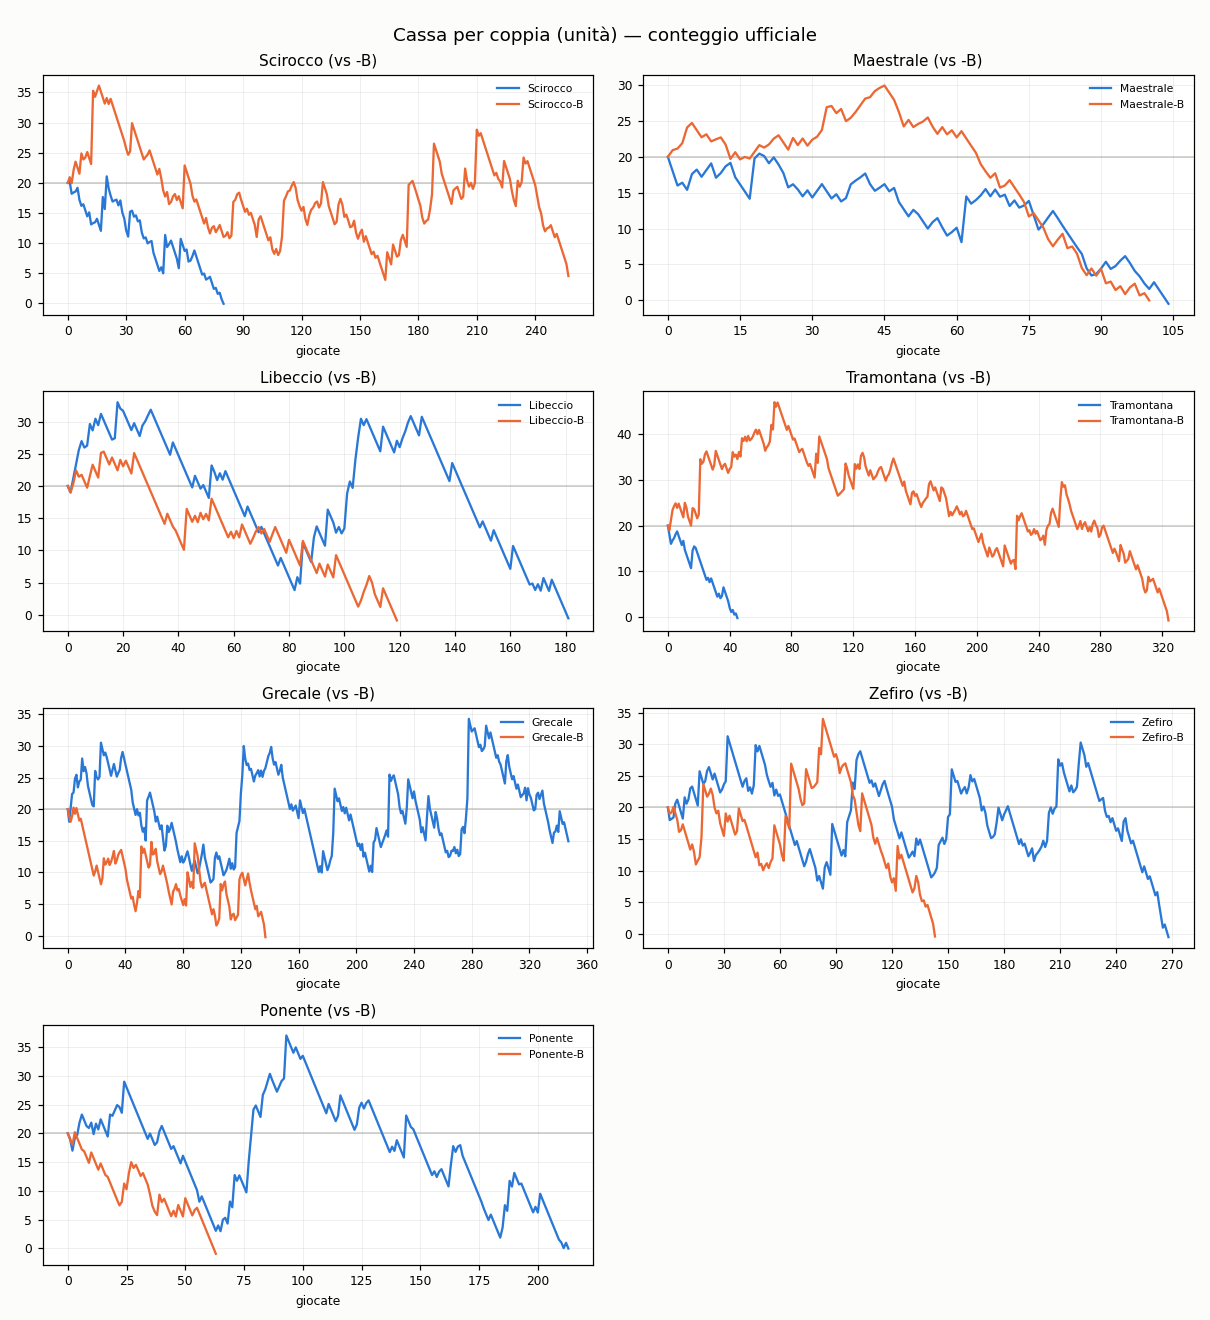
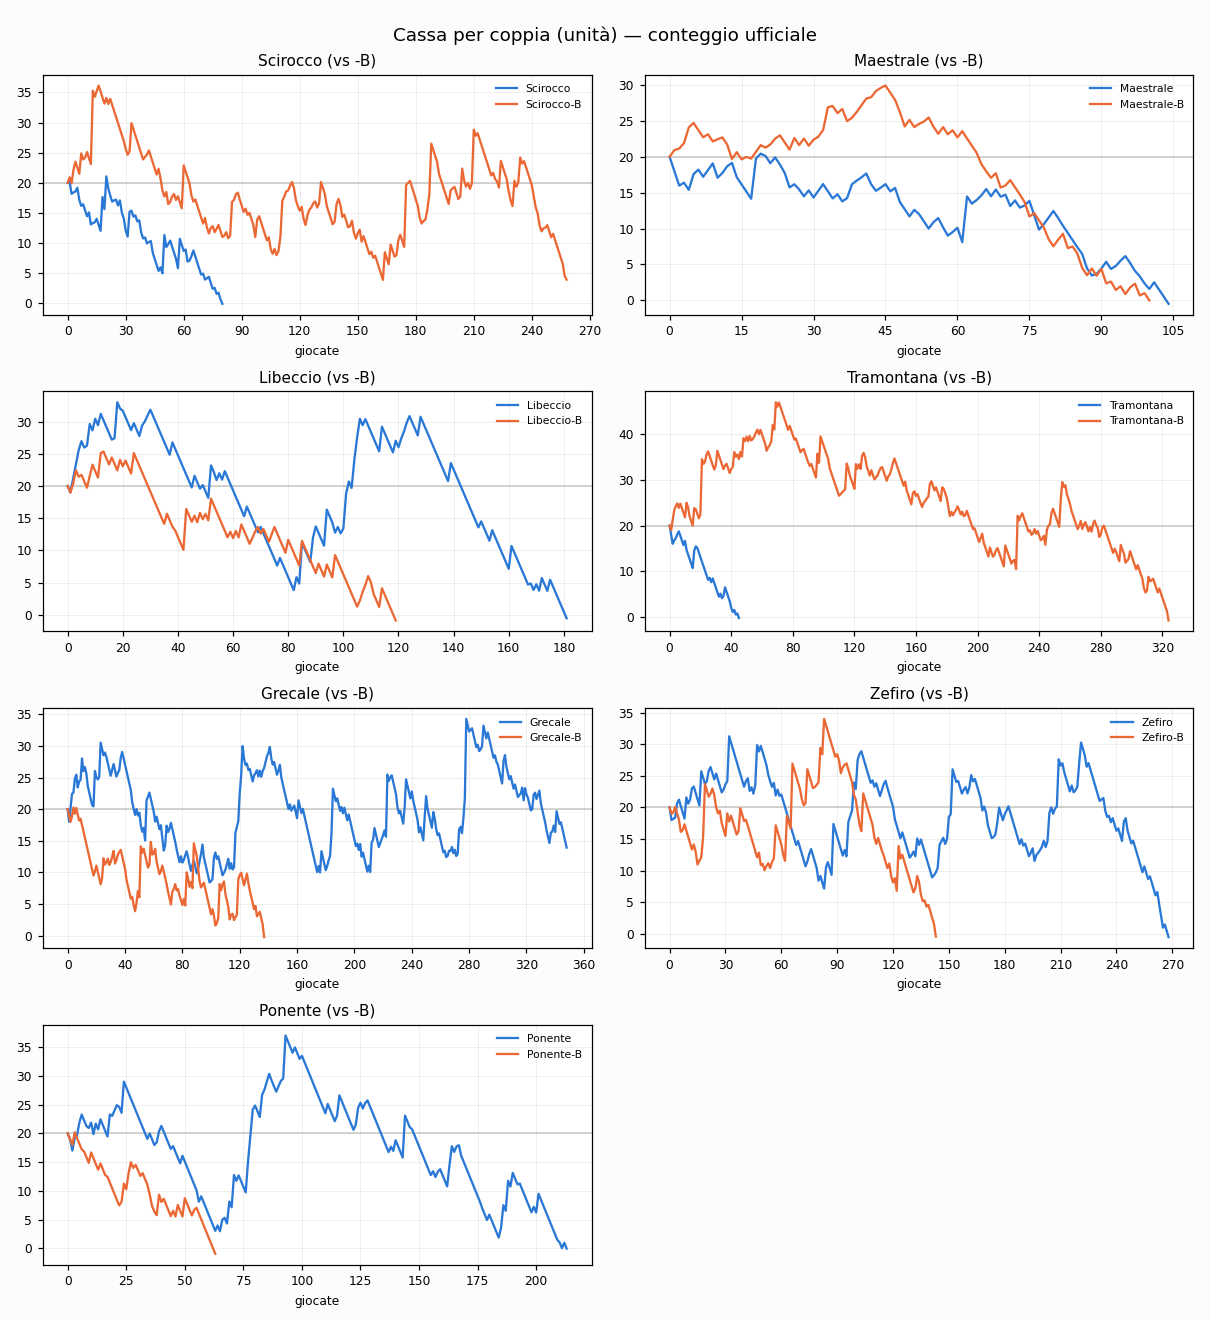
aggiornamento 2026-07-28 17:41 UTC

diff --git a/README.md b/README.md
@@ -37,9 +37,9 @@ scala in unità). Non indichiamo quale.
 
 ## Grafici
 
-![Coppie: dati completi vs ridotti](https://raw.githubusercontent.com/Kitem19/ippica-track-record/main/charts/equity_pairs.png?v=80d138b9)
+![Coppie: dati completi vs ridotti](https://raw.githubusercontent.com/Kitem19/ippica-track-record/main/charts/equity_pairs.png?v=bd003db7)
 
-![Delta per coppia](https://raw.githubusercontent.com/Kitem19/ippica-track-record/main/charts/coppie_delta.png?v=d31373b0)
+![Delta per coppia](https://raw.githubusercontent.com/Kitem19/ippica-track-record/main/charts/coppie_delta.png?v=438f2ebe)
 
 ### Come leggere i grafici
 
@@ -56,11 +56,11 @@ scala in unità). Non indichiamo quale.
 
 _Poche giornate: numeri ancora rumorosi, si conclude a fine fase (31/7)._
 
-- **Scirocco**: dati ridotti avanti di 4,6u — qui gli extra non aiutano
+- **Scirocco**: dati ridotti avanti di 4,0u — qui gli extra non aiutano
 - **Maestrale**: in sostanziale pareggio — troppo presto per dire
 - **Libeccio**: in sostanziale pareggio — troppo presto per dire
 - **Tramontana**: in sostanziale pareggio — troppo presto per dire
-- **Grecale**: dati completi avanti di 15,2u
+- **Grecale**: dati completi avanti di 14,2u
 - **Zefiro**: in sostanziale pareggio — troppo presto per dire
 - **Ponente**: in sostanziale pareggio — troppo presto per dire
 
@@ -68,22 +68,22 @@ _Poche giornate: numeri ancora rumorosi, si conclude a fine fase (31/7)._
 
 | Sistema | Cassa (u) | P/L (u) | Selezioni | Escluse | Stato |
 |---|---|---|---|---|---|
-| Grecale | 14,9 | -5,1 | 347 | 4 | 🟢 |
-| Scirocco-B | 4,5 | -15,5 | 257 | 6 | 🟢 |
-| Maestrale-B | 0,0 | -20,0 | 100 | 280 | 🛑 |
-| Ponente | 0,0 | -20,0 | 213 | 54 | 🛑 |
+| Grecale | 13,9 | -6,1 | 348 | 4 | 🟢 |
+| Scirocco-B | 3,9 | -16,1 | 258 | 6 | 🟢 |
+| Maestrale-B | 0,0 | -20,0 | 100 | 281 | 🛑 |
+| Ponente | 0,0 | -20,0 | 213 | 55 | 🛑 |
 | Scirocco | 0,0 | -20,1 | 80 | 304 | 🛑 |
 | Grecale-B | 0,0 | -20,2 | 137 | 196 | 🛑 |
-| Tramontana | 0,0 | -20,3 | 45 | 342 | 🛑 |
-| Zefiro-B | 0,0 | -20,5 | 143 | 96 | 🛑 |
+| Tramontana | 0,0 | -20,3 | 45 | 343 | 🛑 |
+| Zefiro-B | 0,0 | -20,5 | 143 | 97 | 🛑 |
 | Maestrale | 0,0 | -20,5 | 104 | 300 | 🛑 |
 | Zefiro | 0,0 | -20,6 | 268 | 31 | 🛑 |
-| Libeccio | 0,0 | -20,6 | 181 | 205 | 🛑 |
-| Tramontana-B | 0,0 | -20,8 | 324 | 51 | 🛑 |
-| Libeccio-B | 0,0 | -20,9 | 119 | 216 | 🛑 |
+| Libeccio | 0,0 | -20,6 | 181 | 206 | 🛑 |
+| Tramontana-B | 0,0 | -20,8 | 324 | 52 | 🛑 |
+| Libeccio-B | 0,0 | -20,9 | 119 | 217 | 🛑 |
 | Ponente-B | 0,0 | -21,0 | 63 | 114 | 🛑 |
 
-_Aggiornato: 28/07 19:36_
+_Aggiornato: 28/07 19:41_
 ---
 *Nessuna delle informazioni qui pubblicate costituisce consiglio di gioco.
 Il gioco può causare dipendenza — 18+.*
